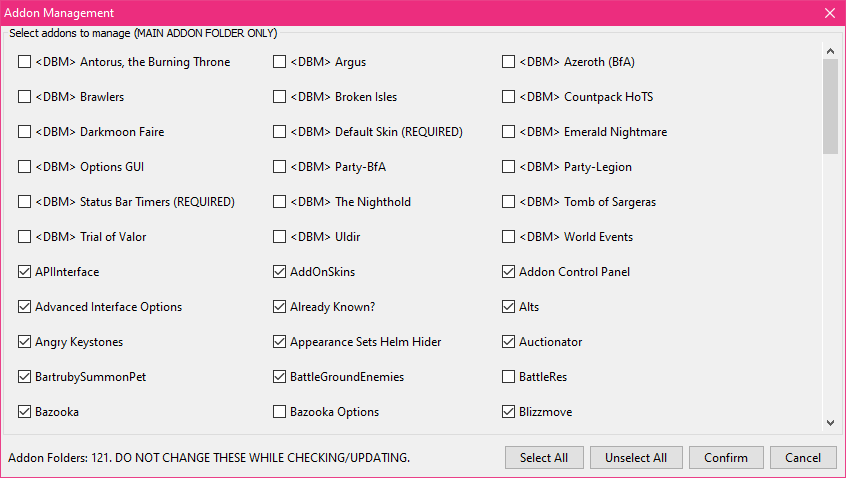
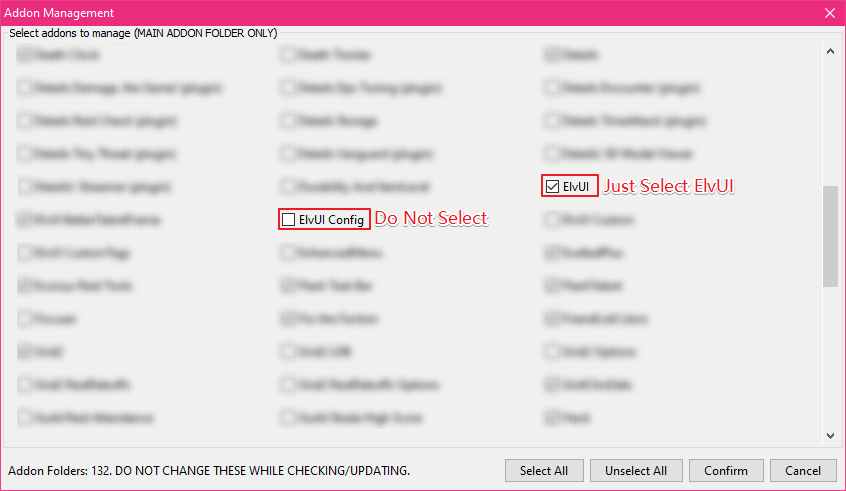
add support for Tukui & ElvUI

diff --git a/src/enderneko/addonupdater/util/AUUpdater.java b/src/enderneko/addonupdater/util/AUUpdater.java
@@ -1,6 +1,5 @@
 package enderneko.addonupdater.util;
 
-import java.io.IOException;
 import java.net.MalformedURLException;
 import java.net.URL;
 import java.util.HashMap;
@@ -34,6 +33,8 @@ public final class AUUpdater {
 	public static final String UP_TO_DATE = "Up to Date";
 	public static final String HAS_UPDATE = "Has Update";
 	public static final String NOT_AVAILABLE = "Not Available";
+	
+	public static final String TUKUI = "https://www.tukui.org";
 
 	private static AUTable tbl;
 	private static IAddonDao dao = AUConfigUtil.getAddonDAO();
@@ -69,27 +70,44 @@ public final class AUUpdater {
 			}
 			dao.update(a);
 
-		} catch (IOException | IndexOutOfBoundsException e) {
+		} catch (Exception e) {
 			// not available
 			a.setStatus(NOT_AVAILABLE);
 		}
 		updateRunnables.remove(a.getName());
 	}
+	
+	private static void updateTUKUI(Addon a) {
+		try {
+			String url = TUKUI + "/download.php?ui=" + a.getName().toLowerCase();
+			Document doc = Jsoup.connect(url).timeout(15000).get();
+			
+			Element linkEl = doc.getElementsByAttributeValue("class", "btn btn-mod btn-border-w btn-round btn-large").get(0);
+			String latestVersion = doc.getElementsByAttributeValue("class", "Premium").get(0).text();
+			String latestDate = doc.getElementsByAttributeValue("class", "Premium").get(1).text();
+			
+			a.setUrl(url);
+			a.setLatestVersion(latestVersion);
+			a.setLatestDate(latestDate);
 
-	// public static void updateAddonInfo(Addon a) {
-	// // prevent create "same" thread again and again
-	// if (!threads.containsKey(a.getName()) || threads.get(a.getName()).getState()
-	// != Thread.State.RUNNABLE) {
-	// Thread t = new Thread(() -> {
-	// a.setStatus(CHECKING);
-	// tbl.updateAndSort();
-	// update(a, AUUtil.getAddonURL(a));
-	// tbl.updateAndSort();
-	// });
-	// threads.put(a.getName(), t);
-	// t.start();
-	// }
-	// }
+			a.setStatus(GETTING_FILE);
+			tbl.refresh();
+			
+			a.setLatestFile(TUKUI + linkEl.attr("href"));
+			
+			if (a.getLatestVersion().equals(a.getVersion())) {
+				a.setStatus(UP_TO_DATE);
+			} else {
+				a.setStatus(HAS_UPDATE);
+			}
+			dao.update(a);
+
+		} catch (Exception e) {
+			// not available
+			a.setStatus(NOT_AVAILABLE);
+		}
+		updateRunnables.remove(a.getName());
+	}
 
 	public static void updateAddonInfo(Addon a, ExecutorService executor) {
 		if (!updateRunnables.containsKey(a.getName())) {
@@ -100,8 +118,11 @@ public final class AUUpdater {
 				public void run() {
 					a.setStatus(CHECKING);
 					tbl.refresh();
-					update(a, AUUtil.getAddonURL(a));
-					tbl.refresh();
+					if ("Tukui".equals(a.getName()) || "ElvUI".equals(a.getName())) {
+						updateTUKUI(a);
+					} else {
+						update(a, AUUtil.getAddonURL(a));
+					}
 				}
 			};
 			updateRunnables.put(a.getName(), r);
@@ -120,6 +141,8 @@ public final class AUUpdater {
 				@Override
 				public void run() {
 					try {
+						a.setStatus(DOWNLOADING);
+						a.getTable().refresh();
 						Download d = new Download(new URL(a.getLatestFile()));
 						d.addObserver(a);
 					} catch (MalformedURLException e) {

diff --git a/src/enderneko/addonupdater/util/AUUtil.java b/src/enderneko/addonupdater/util/AUUtil.java
@@ -107,19 +107,20 @@ public final class AUUtil {
 			for (String fName : subFolders) {
 				// delete old(s)
 				File old = new File(addonsFolder + fName);
-				if (old.exists()) { FileUtils.deleteDirectory(old); }
+				if (old.exists()) FileUtils.forceDelete(old);
 				// move
 				FileUtils.moveDirectory(new File(source, fName), new File(addonsFolder, fName));
-				// delete temp
-				new Timer().schedule(new TimerTask() {
-					@Override
-					public void run() {
-						zip.delete();
-						source.delete();
-					}
-				}, 1000);
 			}
-
+			
+			// delete temp
+			new Timer().schedule(new TimerTask() {
+				@Override
+				public void run() {
+					zip.delete();
+					source.delete();
+				}
+			}, 1000);
+			
 			a.setVersion(a.getLatestVersion());
 			a.setStatus(AUUpdater.UP_TO_DATE);
 			a.getTable().refreshAndSave(a);

diff --git a/README.md b/README.md
@@ -7,6 +7,8 @@ CurseForge Addon updater for World of Warcraft. **REQUIRES JAVA 8.0+.**
 Select addon's main folder only.
 
 _For example: if you want AddonUpdater to manage **DBM**, just select **Deadly Boss Mods Core**._
+
+_Another example: to manage **ElvUI**, just select **ElvUI**._
 ![Addon Management Dialog](https://github.com/enderneko/AddonUpdater/blob/master/screenshots/Management.png)
 
 ## Check for updates
@@ -26,5 +28,4 @@ Addon Url end with **/files**.
 _E.g. Addon Control Panel -> https://www.curseforge.com/wow/addons/acp/files_
 
 _E.g. DBM -> https://www.curseforge.com/wow/addons/deadly-boss-mods/files_
-
 ![Set the correct url](https://github.com/enderneko/AddonUpdater/blob/master/screenshots/EditUrl.png)
